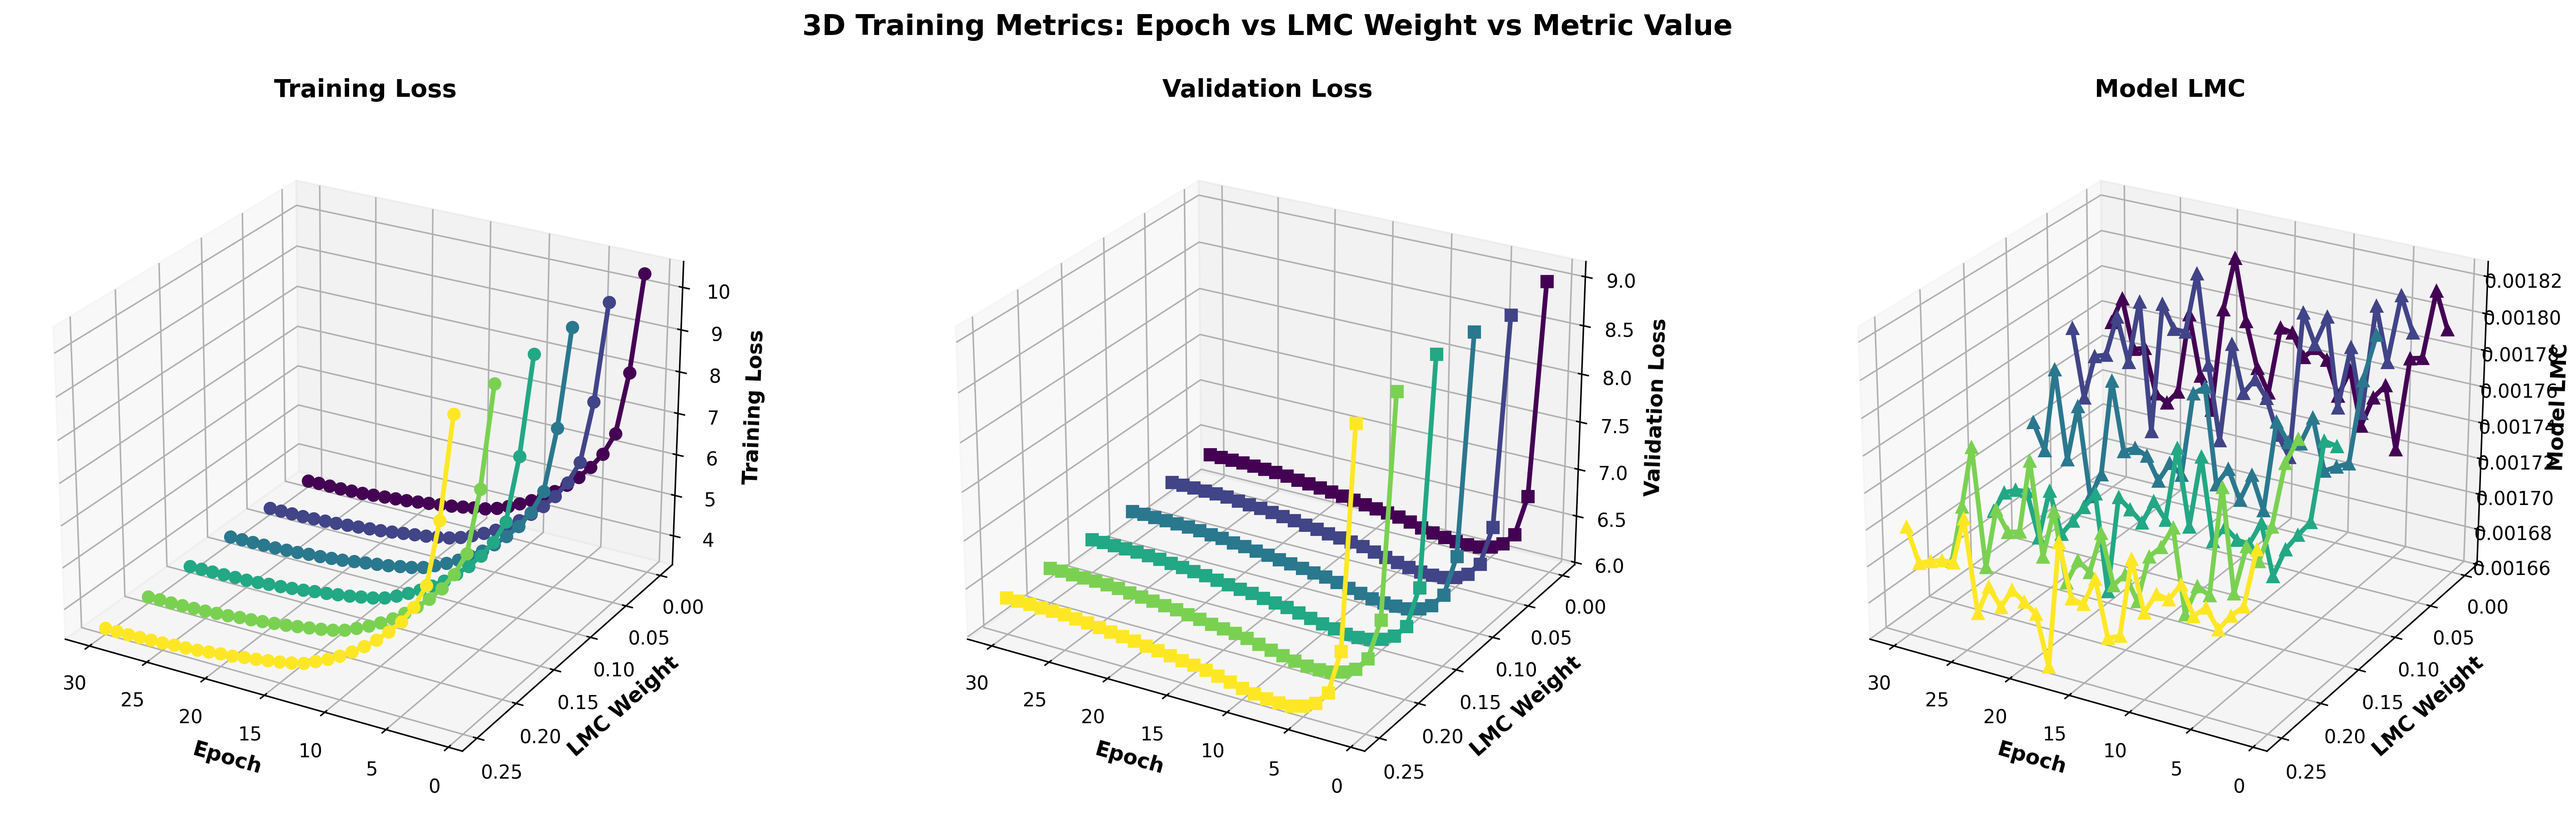
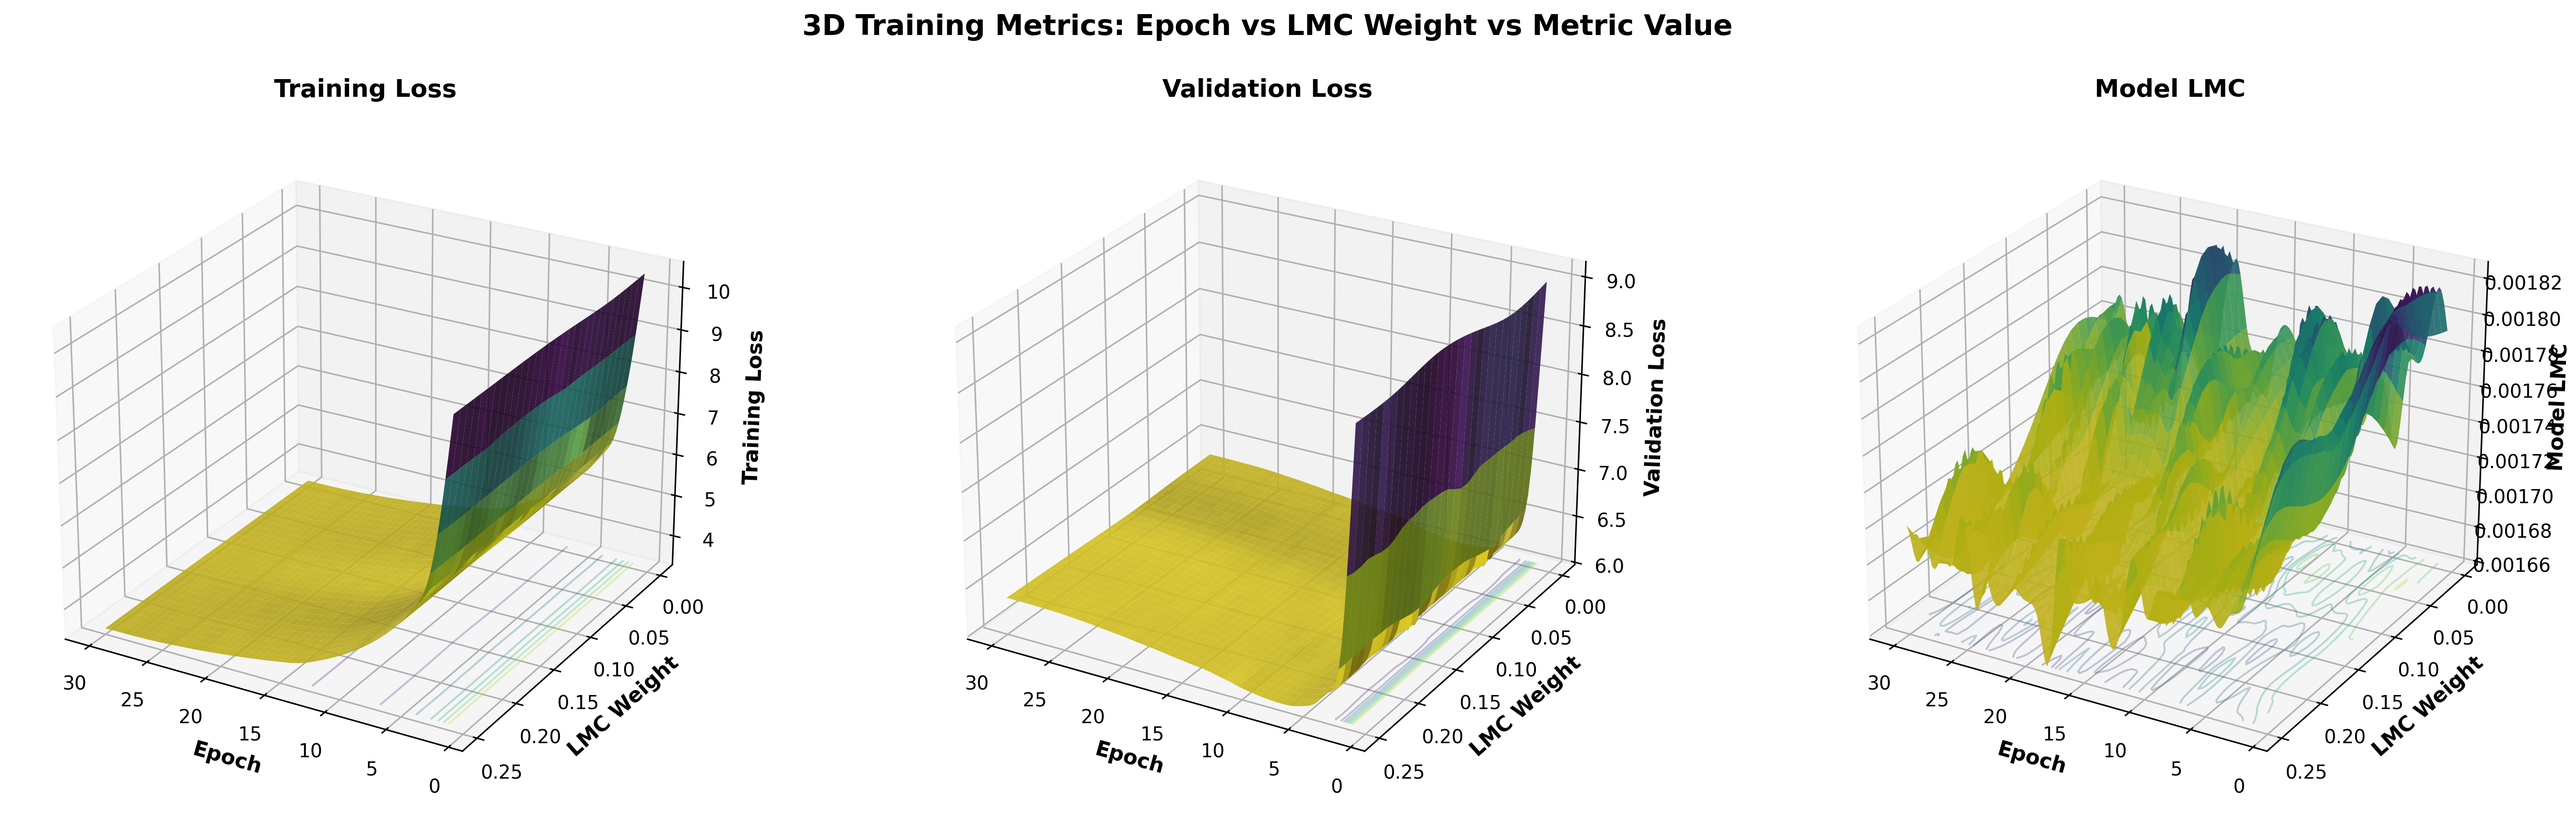
? - new plot

diff --git a/Research/Complexity_Training_Test/plot.py b/Research/Complexity_Training_Test/plot.py
@@ -33,11 +33,11 @@ for folder in folders:
         with open(csv_path, 'r') as f:
             lines = f.readlines()
         
-        # Extract Test Loss and Test LMC Complexity from the first section
+        # Extract Test Loss and Test LMC Complexity - get the LAST occurrence
         test_loss = None
         test_lmc = None
         
-        for line in lines[:10]:  # Only check first 10 lines
+        for line in lines:  # Check all lines to find the last occurrence
             if line.startswith('Test Loss,'):
                 test_loss = float(line.split(',')[1].strip())
             elif line.startswith('Test LMC Complexity,'):
@@ -82,25 +82,25 @@ fig, ax1 = plt.subplots(figsize=(12, 6))
 color = 'tab:blue'
 ax1.set_xlabel('LMC Weight', fontsize=12)
 ax1.set_ylabel('Test Loss', color=color, fontsize=12)
-ax1.plot(lmc_weights, test_losses, marker='o', linestyle='-', linewidth=2, markersize=8, color=color, label='Test Loss')
+line1 = ax1.plot(lmc_weights, test_losses, marker='o', linestyle='-', linewidth=2, markersize=8, color=color, label='Test Loss')
 ax1.tick_params(axis='y', labelcolor=color)
-ax1.grid(True, alpha=0.3)
+ax1.grid(True, alpha=0.3, axis='x')
 
 # Create a second y-axis for Test LMC
 ax2 = ax1.twinx()
 color = 'tab:red'
 ax2.set_ylabel('Test LMC Complexity', color=color, fontsize=12)
-ax2.plot(lmc_weights, test_lmc_complexities, marker='s', linestyle='-', linewidth=2, markersize=8, color=color, label='Test LMC Complexity')
+line2 = ax2.plot(lmc_weights, test_lmc_complexities, marker='s', linestyle='-', linewidth=2, markersize=8, color=color, label='Test LMC Complexity')
 ax2.tick_params(axis='y', labelcolor=color)
 
 # Add title and legends
 plt.title('Test Loss and Test LMC Complexity vs LMC Weight', fontsize=14, fontweight='bold')
 fig.tight_layout()
 
-# Add legends
-lines1, labels1 = ax1.get_legend_handles_labels()
-lines2, labels2 = ax2.get_legend_handles_labels()
-ax1.legend(lines1 + lines2, labels1 + labels2, loc='upper left')
+# Add legends - combine both lines correctly
+lines = line1 + line2
+labels = [l.get_label() for l in lines]
+ax1.legend(lines, labels, loc='upper center', bbox_to_anchor=(0.5, -0.12), ncol=2, frameon=True)
 
 # Save the plot
 plt.savefig('plot_test_loss_and_lmc_plot.png', dpi=300, bbox_inches='tight')
@@ -229,54 +229,93 @@ for lmc_weight, data in training_data.items():
 
 df_3d = pd.DataFrame(training_data_3d)
 
-# Create 3D plots for each metric with better visibility
+# Create 3D plots for each metric with interpolated surfaces
 fig = plt.figure(figsize=(20, 6))
 
-# Generate colors for each LMC weight
+# Get unique values for interpolation
 unique_lmc_weights = sorted(df_3d['LMC Weight'].unique())
-colors_map = plt.cm.viridis(np.linspace(0, 1, len(unique_lmc_weights)))
+unique_epochs = sorted(df_3d['Epoch'].unique())
+
+# Create meshgrid for interpolation
+X, Y = np.meshgrid(unique_epochs, unique_lmc_weights)
+
+# Function to create interpolated surface with color based on distance from plane
+def create_surface_plot(ax, metric_name, title):
+    from scipy.interpolate import griddata
+    
+    # Create Z matrix for the metric
+    Z = np.zeros((len(unique_lmc_weights), len(unique_epochs)))
+    
+    for i, lmc_weight in enumerate(unique_lmc_weights):
+        for j, epoch in enumerate(unique_epochs):
+            value = df_3d[(df_3d['LMC Weight'] == lmc_weight) & (df_3d['Epoch'] == epoch)][metric_name]
+            if not value.empty:
+                Z[i, j] = value.values[0]
+            else:
+                # Interpolate if missing
+                Z[i, j] = np.nan
+    
+    # Fill NaN values with linear interpolation if any
+    mask = ~np.isnan(Z)
+    if not mask.all():
+        points = np.array([(Y[mask].flatten()[k], X[mask].flatten()[k]) for k in range(mask.sum())])
+        values = Z[mask].flatten()
+        Z_filled = griddata(points, values, (Y, X), method='linear')
+        Z = np.where(np.isnan(Z), Z_filled, Z)
+    
+    # Create a much denser grid for smooth visualization
+    epochs_fine = np.linspace(unique_epochs[0], unique_epochs[-1], len(unique_epochs) * 5)
+    lmc_weights_fine = np.linspace(unique_lmc_weights[0], unique_lmc_weights[-1], len(unique_lmc_weights) * 5)
+    X_fine, Y_fine = np.meshgrid(epochs_fine, lmc_weights_fine)
+    
+    # Flatten the original data for interpolation
+    points = np.array([X.flatten(), Y.flatten()]).T
+    values = Z.flatten()
+    
+    # Interpolate on the fine grid using cubic interpolation for smoothness
+    points_fine = np.array([X_fine.flatten(), Y_fine.flatten()]).T
+    Z_fine = griddata(points, values, points_fine, method='cubic')
+    Z_fine = Z_fine.reshape(X_fine.shape)
+    
+    # Color based on distance from the Epoch x LMC Weight plane (Z=0)
+    # Use absolute distance and apply exponential scaling for more pronounced color changes near 0
+    Z_abs = np.abs(Z_fine)
+    Z_normalized = (Z_abs - np.nanmin(Z_abs)) / (np.nanmax(Z_abs) - np.nanmin(Z_abs))
+    
+    # Apply power function to make color changes more pronounced near 0
+    # Higher exponent = more dramatic color change near 0
+    Z_normalized = Z_normalized ** 3
+    
+    # Invert so closer to Z=0 is darker
+    Z_normalized = 1 - Z_normalized
+    
+    # Create surface plot with color based on distance from base plane (Z=0)
+    surf = ax.plot_surface(X_fine, Y_fine, Z_fine, facecolors=plt.cm.viridis(Z_normalized), 
+                          alpha=0.9, edgecolor='none', shade=True, antialiased=True)
+    
+    # Add contour lines on the base plane for better visualization
+    ax.contour(X_fine, Y_fine, Z_fine, zdir='z', offset=np.nanmin(Z_fine), cmap='viridis', alpha=0.3, linewidths=1)
+    
+    ax.set_xlabel('Epoch', fontsize=11, fontweight='bold')
+    ax.set_ylabel('LMC Weight', fontsize=11, fontweight='bold')
+    ax.set_zlabel(title, fontsize=11, fontweight='bold')
+    ax.set_title(title, fontsize=13, fontweight='bold')
+    ax.view_init(elev=25, azim=120)
+    ax.grid(True, alpha=0.3)
+    
+    return surf
 
 # 3D Plot 1: Training Loss
 ax1 = fig.add_subplot(131, projection='3d')
-for i, lmc_weight in enumerate(unique_lmc_weights):
-    subset = df_3d[df_3d['LMC Weight'] == lmc_weight]
-    ax1.plot(subset['Epoch'], [lmc_weight]*len(subset), subset['Training Loss'], 
-             marker='o', color=colors_map[i], label=f'LMC {lmc_weight:.2f}', linewidth=2.5, markersize=6)
-
-ax1.set_xlabel('Epoch', fontsize=11, fontweight='bold')
-ax1.set_ylabel('LMC Weight', fontsize=11, fontweight='bold')
-ax1.set_zlabel('Training Loss', fontsize=11, fontweight='bold')
-ax1.set_title('Training Loss', fontsize=13, fontweight='bold')
-ax1.view_init(elev=25, azim=120)
-ax1.grid(True, alpha=0.3)
+surf1 = create_surface_plot(ax1, 'Training Loss', 'Training Loss')
 
 # 3D Plot 2: Validation Loss
 ax2 = fig.add_subplot(132, projection='3d')
-for i, lmc_weight in enumerate(unique_lmc_weights):
-    subset = df_3d[df_3d['LMC Weight'] == lmc_weight]
-    ax2.plot(subset['Epoch'], [lmc_weight]*len(subset), subset['Validation Loss'], 
-             marker='s', color=colors_map[i], label=f'LMC {lmc_weight:.2f}', linewidth=2.5, markersize=6)
-
-ax2.set_xlabel('Epoch', fontsize=11, fontweight='bold')
-ax2.set_ylabel('LMC Weight', fontsize=11, fontweight='bold')
-ax2.set_zlabel('Validation Loss', fontsize=11, fontweight='bold')
-ax2.set_title('Validation Loss', fontsize=13, fontweight='bold')
-ax2.view_init(elev=25, azim=120)
-ax2.grid(True, alpha=0.3)
+surf2 = create_surface_plot(ax2, 'Validation Loss', 'Validation Loss')
 
 # 3D Plot 3: Model LMC
 ax3 = fig.add_subplot(133, projection='3d')
-for i, lmc_weight in enumerate(unique_lmc_weights):
-    subset = df_3d[df_3d['LMC Weight'] == lmc_weight]
-    ax3.plot(subset['Epoch'], [lmc_weight]*len(subset), subset['Model LMC'], 
-             marker='^', color=colors_map[i], label=f'LMC {lmc_weight:.2f}', linewidth=2.5, markersize=6)
-
-ax3.set_xlabel('Epoch', fontsize=11, fontweight='bold')
-ax3.set_ylabel('LMC Weight', fontsize=11, fontweight='bold')
-ax3.set_zlabel('Model LMC', fontsize=11, fontweight='bold')
-ax3.set_title('Model LMC', fontsize=13, fontweight='bold')
-ax3.view_init(elev=25, azim=120)
-ax3.grid(True, alpha=0.3)
+surf3 = create_surface_plot(ax3, 'Model LMC', 'Model LMC')
 
 fig.suptitle('3D Training Metrics: Epoch vs LMC Weight vs Metric Value', fontsize=15, fontweight='bold', y=1.00)
 plt.tight_layout()
